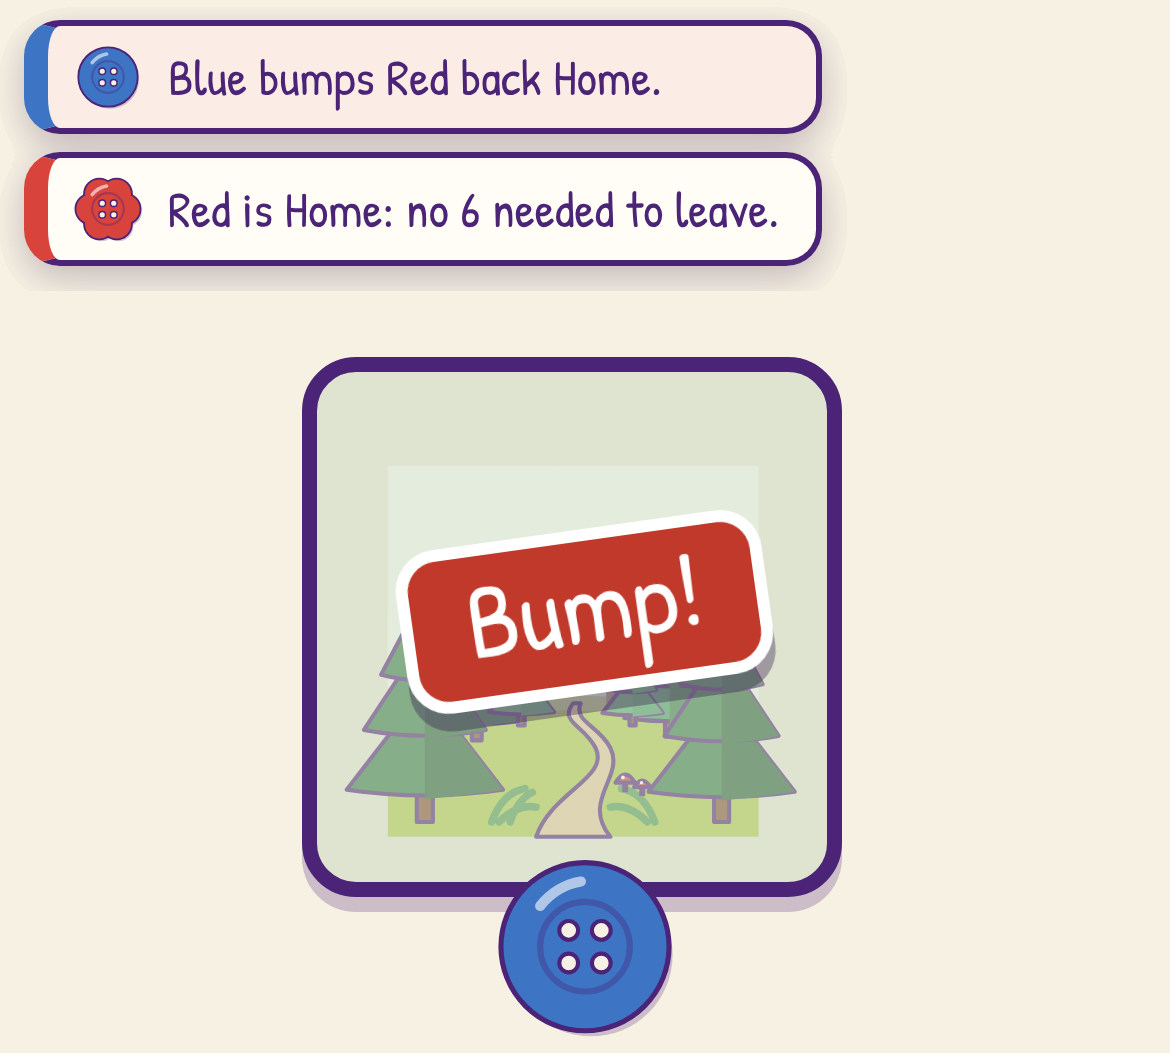
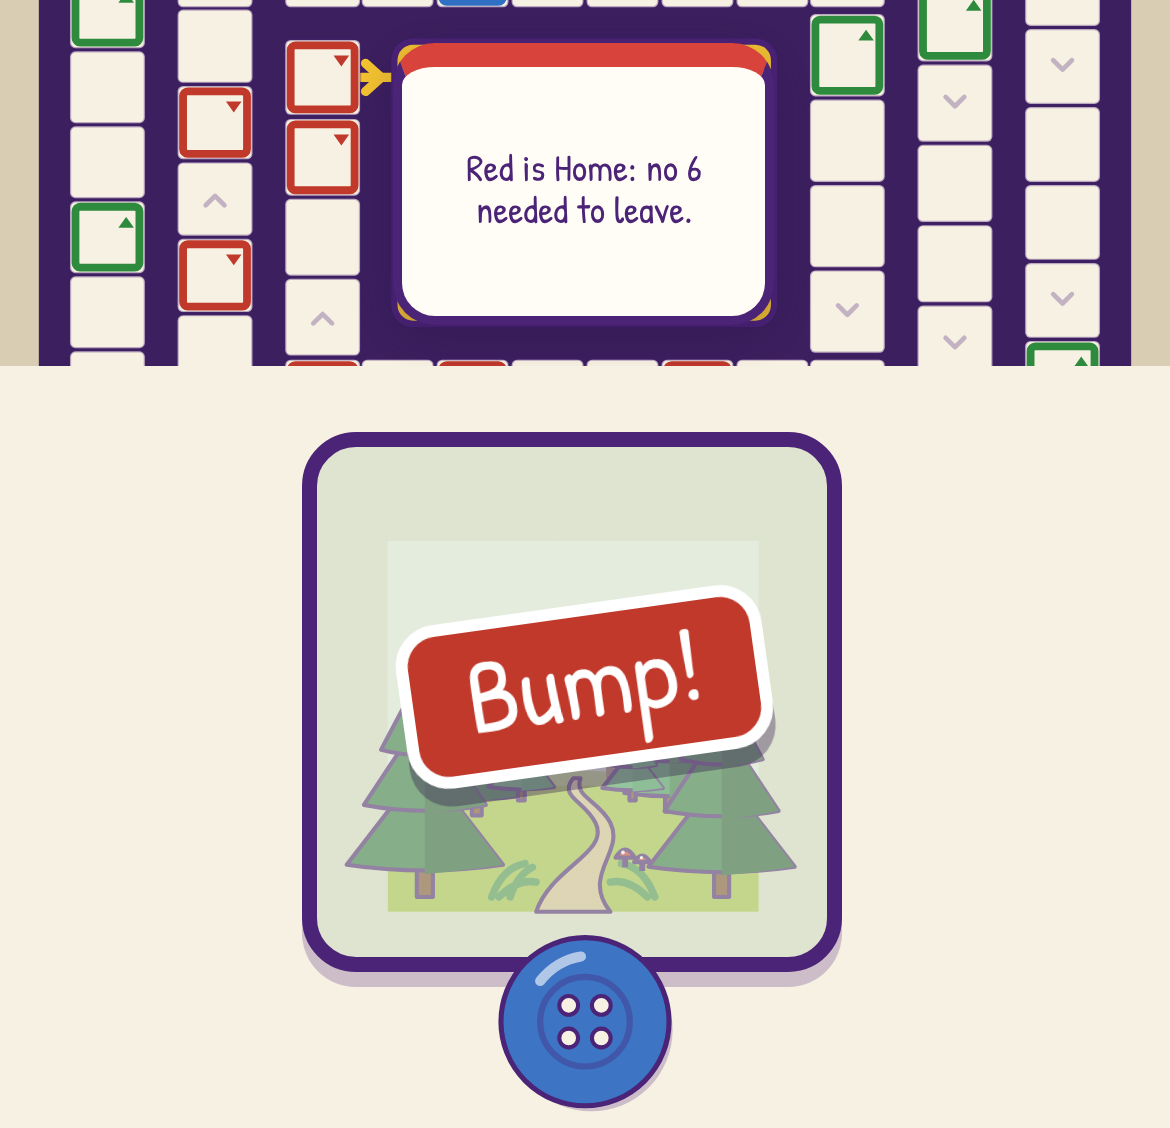
The farmers' 6 made clear, Mr. Lin breathes quicker, How to play pictures with the new notifications
Owner, 27 Nov 2026:
- the new notifications are kept; How to play pictures 7 and 8 made again with them (the board around the
  Lantern Festival's square); the notification's box is fully solid
- the Countryside: under Mr. Lin's announcement the owner's words "Roll one more time and add what you roll to the
  6 gifted by farmers!"; the die shows the gifted 6 and the list under it starts with it ("6 + 3 = 9")
- Mr. Lin's breathing: 2.2 s each way (was 4.5 s, too slow)

207 unit tests, 35 of 35 browser checks.

Claude-Session: https://claude.ai/code/session_01Us8wEPToVeAgzYiRm9hEeS

Changed region(s): [[0.0, 0.0, 1.0, 0.4255], [0.2462, 0.4862, 0.7385, 0.9725], [0.4615, 0.9725, 0.5231, 1.0]]

diff --git a/src/ui/app.css b/src/ui/app.css
@@ -588,7 +588,7 @@ button:focus-visible { outline: .25rem solid var(--ink); outline-offset: .1875re
   z-index: 3; display: flex; flex-direction: column; gap: .25rem; pointer-events: none; container-type: size; }
 .notes .note { flex: 1 1 0; min-height: 0; margin: 0; width: auto; display: flex; flex-direction: column; align-items: center; justify-content: center;
   gap: .25em; padding: .25em .5em; border-radius: .875rem; text-align: center; overflow: hidden; overflow-wrap: anywhere;
-  background: rgba(255, 253, 246, .97); border: .1875rem solid var(--ink); border-top: .5rem solid var(--who, var(--ink)); box-shadow: 0 .25rem .75rem rgba(43, 18, 72, .3);
+  background: #fffdf6; border: .1875rem solid var(--ink); border-top: .5rem solid var(--who, var(--ink)); box-shadow: 0 .25rem .75rem rgba(43, 18, 72, .3);
   font-size: clamp(.75rem, min(10cqw, 14cqh), 2.6rem); line-height: 1.15; }
 /* a small square: the words only (the top edge keeps the player's colour) */
 @container (max-height: 9rem) { .notes .note .tok { display: none; } }
@@ -603,7 +603,7 @@ button:focus-visible { outline: .25rem solid var(--ink); outline-offset: .1875re
 .gp-face { flex: 0 0 auto; width: clamp(4rem, 22cqw, 6.5rem); aspect-ratio: 1; margin-block: -.25rem -1.25rem; border-radius: 50%;
   background: #fff4c8; border: .25rem solid #f2c230; box-shadow: 0 0 0 .1875rem var(--ink); overflow: hidden; display: flex; align-items: flex-end; justify-content: center; position: relative; z-index: 1; }
 /* the whole head shows: the topknot at the top, the beard down to the robe (owner, 26 Nov 2026: "zoom it down a bit") */
-.gp-face img { height: 90%; width: auto; display: block; transform-origin: 50% 100%; animation: lin-breathe 4.5s ease-in-out infinite alternate; }
+.gp-face img { height: 90%; width: auto; display: block; transform-origin: 50% 100%; animation: lin-breathe 2.2s ease-in-out infinite alternate; } /* owner, 27 Nov 2026: was 4.5 s, too slow */
 @keyframes lin-breathe { from { transform: translateY(1%) scale(1); } to { transform: translateY(-.5%) scale(1.03); } }
 @media (prefers-reduced-motion: reduce) { .gp-face img { animation: none; transform: translateY(1%); } }
 /* the words sit in the middle, between the header and the buttons; they scroll when there are too many */

diff --git a/src/ui/app.ts b/src/ui/app.ts
@@ -80,6 +80,7 @@ const T = {
   win: { title: "{p} made it!", newGame: "New game", album: "Postcard album" }, // D6
   sixes: "Sixes!", // D14
   understand: "I understand", // owner, Step I phase F: closes Mr. Lin's stories and tips
+  gifted6: "Roll one more time and add what you roll to the 6 gifted by farmers!", // owner's own words, 27 Nov 2026
 };
 
 const cap = (s: string) => s.charAt(0).toUpperCase() + s.slice(1);
@@ -577,10 +578,11 @@ export class GameScreen {
         const a = B.areas[e.area];
         this.areaFx = e.effect;
         const question = asked && after.length === 0;
+        if (e.effect === "gifted6") this.dice.gift(); // the farmers' 6 under the die, as a rolled 6 shows: then "6 + 3 = 9" (owner, 27 Nov 2026)
         if (e.effect === "gifted6" && !(me && a.announce)) this.note("gifted6", e.player, "good"); // he says it to a person (C3)
         // owner, 26 Nov 2026: Mr. Lin's welcome and his area announcements have their own sound ("lantern-out")
         if (me && a.announce) sound.play("lantern-out");
-        if (me && !question && a.announce) await this.story({ title: esc(a.name), text: esc(a.announce), art: artFor(a.icon ?? "", "") });
+        if (me && !question && a.announce) await this.story({ title: esc(a.name), text: esc(a.announce), art: artFor(a.icon ?? "", ""), tone: e.effect === "gifted6" ? "good" : "", outcome: e.effect === "gifted6" ? esc(T.gifted6) : undefined });
         await this.wait(me ? 600 : 1200);
         break;
       }

diff --git a/src/ui/dice.ts b/src/ui/dice.ts
@@ -57,6 +57,16 @@ export class Dice {
     this.show();
   }
 
+  /** The Countryside's gifted 6 (owner, 27 Nov 2026): the die shows a 6 and the list starts with it, so the roll that
+   * follows reads "6 + 3 = 9", as after a rolled 6. */
+  gift(): void {
+    this.face(6);
+    this.throws = [6];
+    this.stale = false;
+    this.list.textContent = "6";
+    this.said.textContent = "A gifted 6";
+  }
+
   /** A move was made: the next throw begins a new list. */
   moved(): void {
     this.stale = true;

diff --git a/docs/prompts/StepI_destinations.md b/docs/prompts/StepI_destinations.md
@@ -367,10 +367,13 @@ all corrections"), and asked to review the result afterwards. Changes to earlier
   repeated; robots keep their notifications. His question at Home goes inside his quote, after his story. **A tip never
   shows unrelated:** the bump tip and the Bonus card tip show at the end of the same turn in which that person bumped
   someone or met bad luck holding no card, never at a later turn (phase F had them at the next quiet turn).
-- **The notifications (owner, 27 Nov 2026, to try in a real game; undone if not liked):** over the destination's square
-  in the middle of the board, always as big as that square however short the text, one at a time (the next waits at
-  least 1.5 seconds), the words broken into lines as needed. The How to play pictures 7 and 8 still show the old
-  notifications (made again once the owner keeps this).
+- **The notifications (owner, 27 Nov 2026: "keep it"):** over the destination's square in the middle of the board,
+  always as big as that square however short the text, one at a time (the next waits at least 1.5 seconds), the words
+  broken into lines as needed. How to play pictures 7 and 8 made again with them.
+- **The Countryside's gifted 6 (owner, 27 Nov 2026):** under Mr. Lin's announcement, the owner's words "Roll one more
+  time and add what you roll to the 6 gifted by farmers!"; the die shows the gifted 6 and the list under it starts
+  with it ("6 + 3 = 9"), as after a rolled 6.
+- **Mr. Lin's breathing** is quicker (2.2 s each way, was 4.5 s), so it reads as breathing, not slow motion.
 
 ## Phased plan (approved)
 
